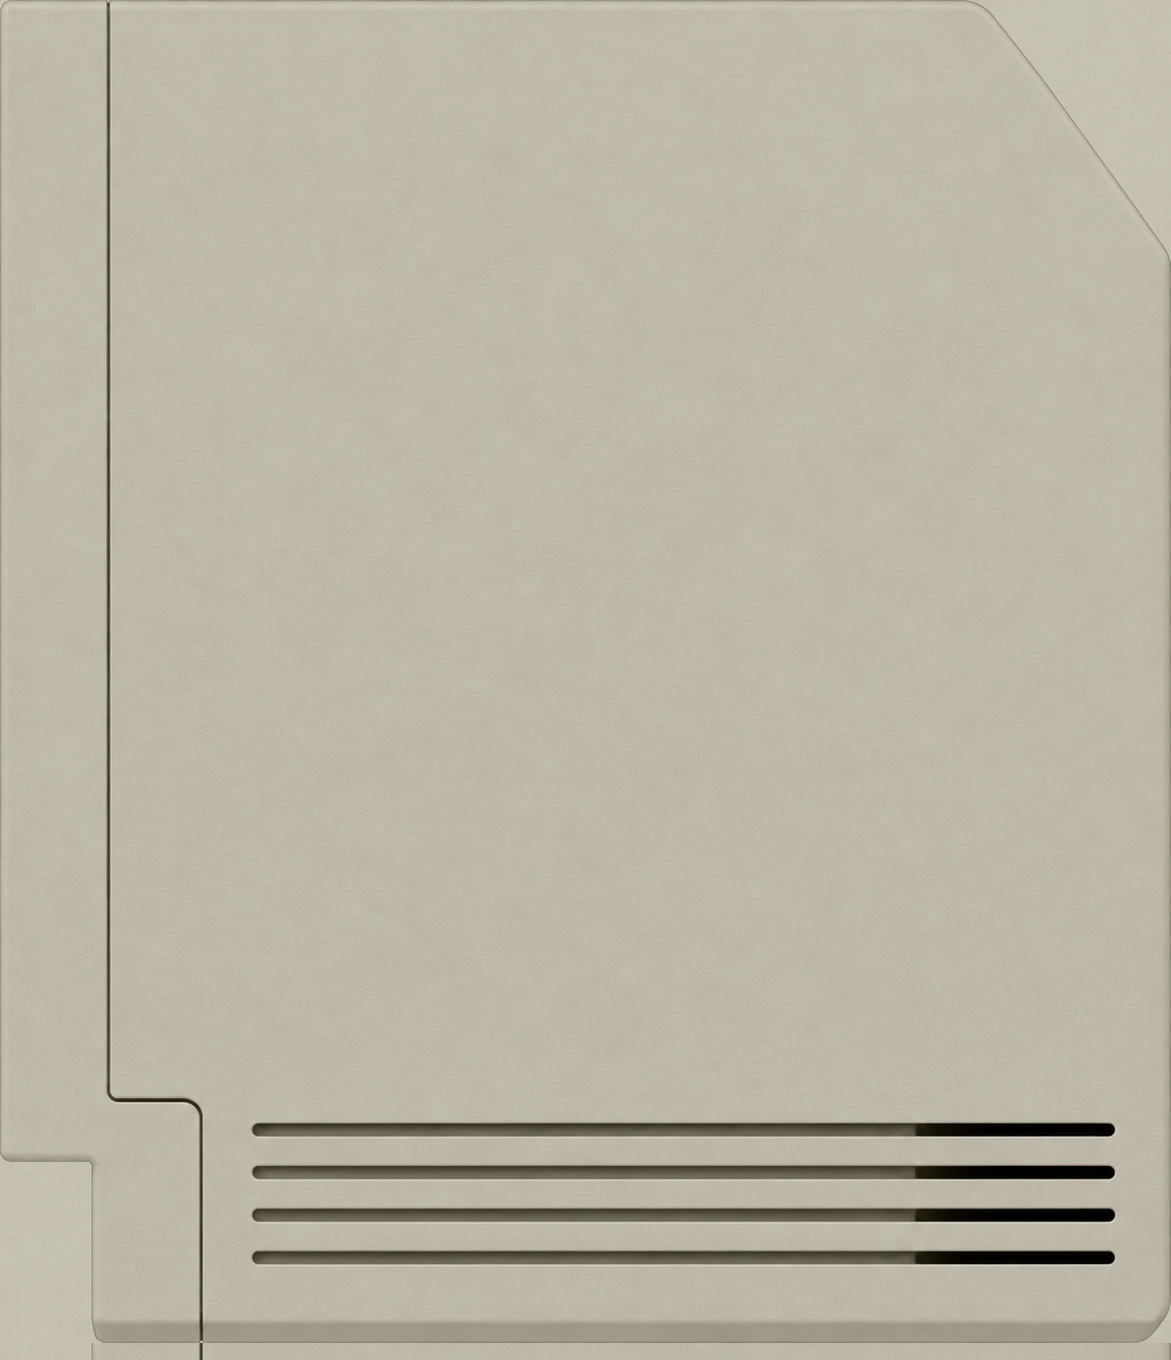
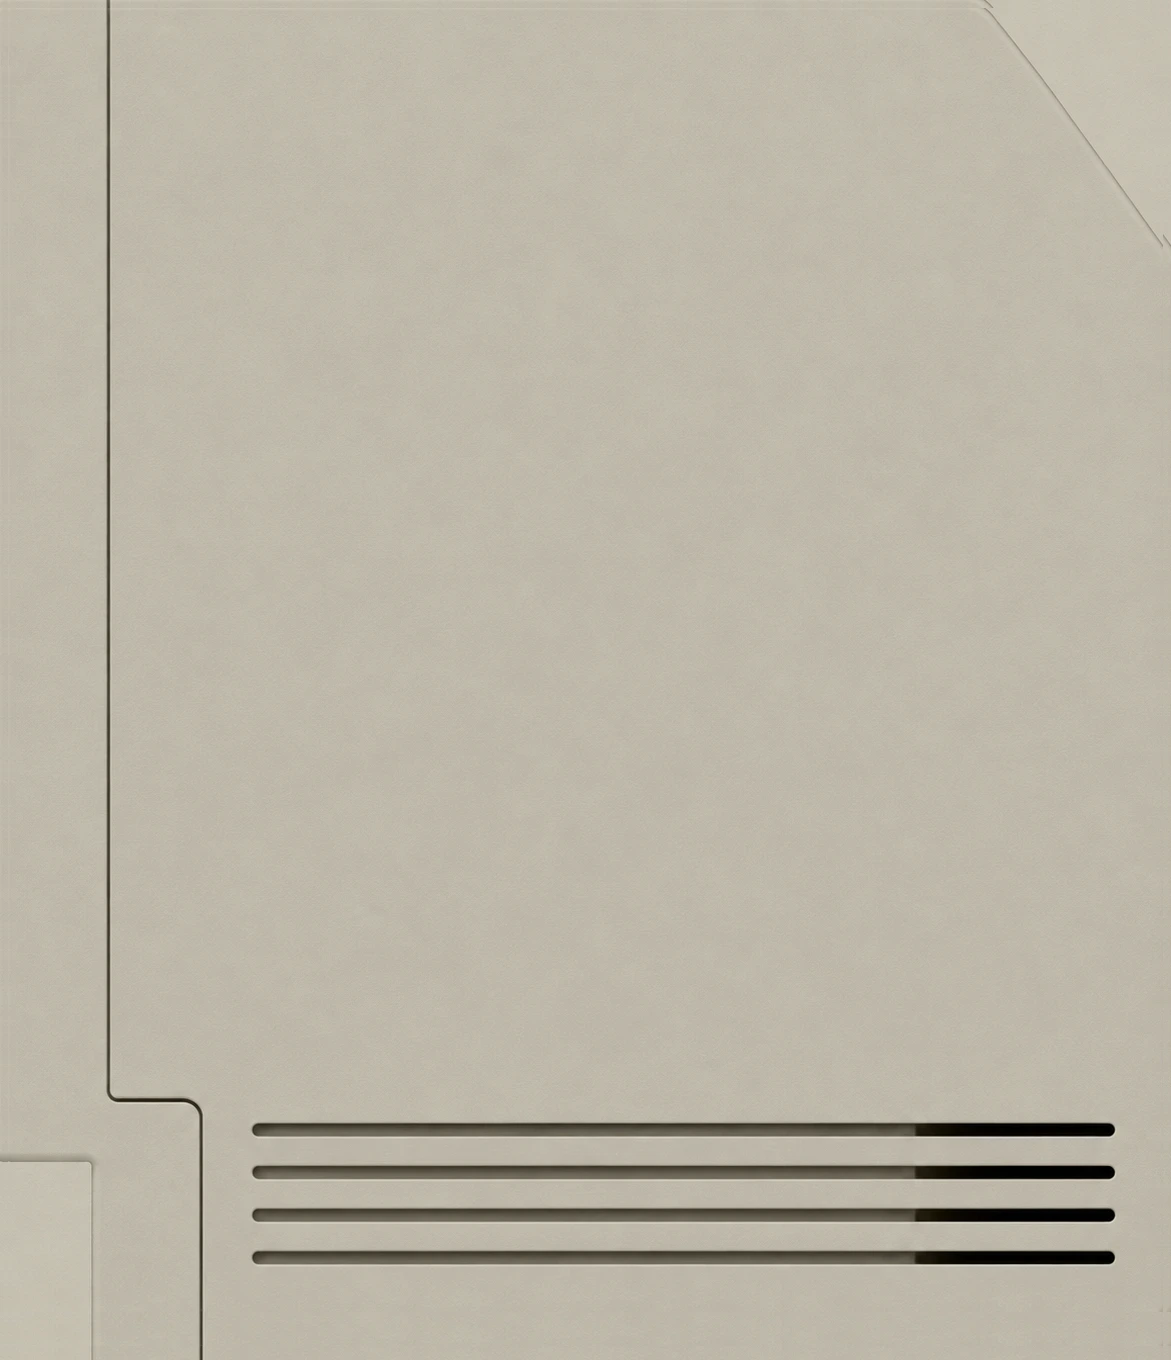
Accueil : Macintosh de l'Atelier — arêtes arrondies flanc / dessous, coins du bas du pied arrondis, bords du flanc droit nettoyés
Claude-Session: https://claude.ai/code/session_01RceSe89TKgdzRwupFX2FFC

Changed region(s): [[0.0615, 0.1853, 1.0, 1.0]]

diff --git a/index.html b/index.html
@@ -178,7 +178,8 @@
 
   /* le pied en retrait : sous la bande du logo, la façade recule de 4.877 u (relevé sur la vue de côté) */
   .face.foot {
-    left: 25.95%; width: 48.03%; top: 84.57%; height: calc(var(--u) * 7.895);   /* 17 nov. (atelier) : s'arrête au dessous (avant : 8.703, dépassait de 0,8 u) */
+    left: 25.95%; width: 48.03%; top: 84.57%; height: calc(var(--u) * 7.895);
+    clip-path: inset(0 round 0 0 calc(var(--u) * 1.7) calc(var(--u) * 1.7));   /* 17 nov. : coins du bas arrondis */   /* 17 nov. (atelier) : s'arrête au dessous (avant : 8.703, dépassait de 0,8 u) */
     transform: translateZ(calc(var(--u) * -4.877));
     backface-visibility: hidden; -webkit-backface-visibility: hidden;
     background:
@@ -214,6 +215,7 @@
   .face.bottom {
     top: calc(var(--u) * 64.275); height: calc(var(--u) * 47.960); transform-origin: 50% 0;   /* s’arrête avant l'arrondi du bas du dos */
     transform: translateZ(calc(var(--u) * -4.877)) rotateX(-90deg);   /* commence sous le pied en retrait */
+    left: calc(25.95% + var(--u) * 1.6); width: calc(48.03% - var(--u) * 3.2);   /* 17 nov. : s'arrête aux arêtes arrondies flanc / dessous */
     backface-visibility: hidden; -webkit-backface-visibility: hidden;
     background: url(mac3d/v3/bottom.webp) 0 0 / 100% 100% no-repeat;   /* photo vue de dessous : pieds, aérations, étiquette, trappe */
     filter: brightness(.5);
@@ -804,7 +806,7 @@
   {
     const back = obj.querySelector('.face.back');
     const n = SH.PR.length - 1, NF = 8;
-    for (let i = 0; i < n * (1 + 2 * NF) + 6 + 8 + RIM_N; i++) { const d = document.createElement('div'); d.className = 'face tp'; back.after(d); shellEls.push(d); }
+    for (let i = 0; i < n * (1 + 2 * NF) + 6 + 8 + 8 + RIM_N; i++) { const d = document.createElement('div'); d.className = 'face tp'; back.after(d); shellEls.push(d); }
     // les flancs, coupés juste sous l'arrondi (polygone en % de chaque flanc)
     const off = SH.PR.map((q, i) => {
       const a = SH.PR[Math.max(0, i - 1)], b = SH.PR[Math.min(n, i + 1)];
@@ -817,9 +819,10 @@
       // 17 nov. (atelier) : le flanc monte jusqu'au haut du dos (plus de triangle vide sous la fin de l'arête),
       // s'arrête au dessous (avec l'arrondi dos-dessous) et suit le retrait du pied à l'avant
       const { BOT, RB, DEP } = SH, FOOT_Y = 56.38, FOOT_Z = 4.877, arc = [];
-      for (let k = 0; k <= 4; k++) { const p = k / 4 * Math.PI / 2; arc.push(pt(DEP - RB + RB * Math.cos(p), BOT - RB + RB * Math.sin(p))); }
+      const pc = Math.asin((RB - SH.RC) / RB);   // 17 nov. : l'arc du dos s'arrête où commence l'arête arrondie flanc / dessous
+      for (let k = 0; k <= 4; k++) { const p = k / 4 * pc; arc.push(pt(DEP - RB + RB * Math.cos(p), BOT - RB + RB * Math.sin(p))); }
       return 'polygon(' + [pt(0.3, off[0][1]), ...off.map(([z, y]) => pt(Math.max(0.3, z), y)), pt(DEP, SH.PR[SH.PR.length - 1][1]), ...arc,
-        pt(FOOT_Z, BOT), pt(FOOT_Z, FOOT_Y - SH.RC), pt(0.3, FOOT_Y - SH.RC)].join(', ') + ')';
+        pt(FOOT_Z, BOT - SH.RC), pt(FOOT_Z, FOOT_Y - SH.RC), pt(0.3, FOOT_Y - SH.RC)].join(', ') + ')';
     };
     obj.querySelector('.face.right').style.clipPath = poly(false);
     obj.querySelector('.face.left').style.clipPath = poly(true);
@@ -953,6 +956,20 @@
         const col = (t) => `rgb(${C.map((c) => `calc(${c} * (${lit(t)}))`).join(', ')})`;
         el.style.backgroundColor = 'transparent'; el.style.filter = 'none';
         el.style.backgroundImage = `linear-gradient(90deg, ${col(Th[i])}, ${col(Th[i + 1])})`;
+      }
+    }
+    // 17 nov. (atelier) : arêtes arrondies entre les flancs et le dessous (rayon 1.7 u), du pied jusqu'à l'arrondi du dos
+    { const RC = SH.RC, FZ = 4.877, Z1 = SH.DEP - SH.RB, NC = 4, OV = .045;
+      for (const side of [-1, 1]) {
+        const cx = side < 0 ? SH.XL + RC : SH.XR - RC, cy = SH.BOT - RC;
+        for (let f = 0; f < NC; f++) {
+          const p0 = Math.max(0, f / NC * Math.PI / 2 - OV), p1 = Math.min(Math.PI / 2, (f + 1) / NC * Math.PI / 2 + OV);
+          const X = (p) => cx + side * RC * Math.cos(p), Y = (p) => cy + RC * Math.sin(p);
+          const el = shellEls[e++];
+          el.className = 'face tp fil pb';
+          quad(el, [X(p0), Y(p0), FZ - .05], [X(p0), Y(p0), Z1 + .05], [X(p1), Y(p1), FZ - .05]);
+          across(el, (p) => `var(${side < 0 ? '--lL' : '--lR'}, .8) * ${(1 - Math.sin(p)).toFixed(4)} + ${(0.5 * Math.sin(p)).toFixed(4)}`, p0, p1);
+        }
       }
     }
     for (let k = e; k < shellEls.length; k++) shellEls[k].style.display = 'none';   // facettes en trop au niveau de détail choisi
